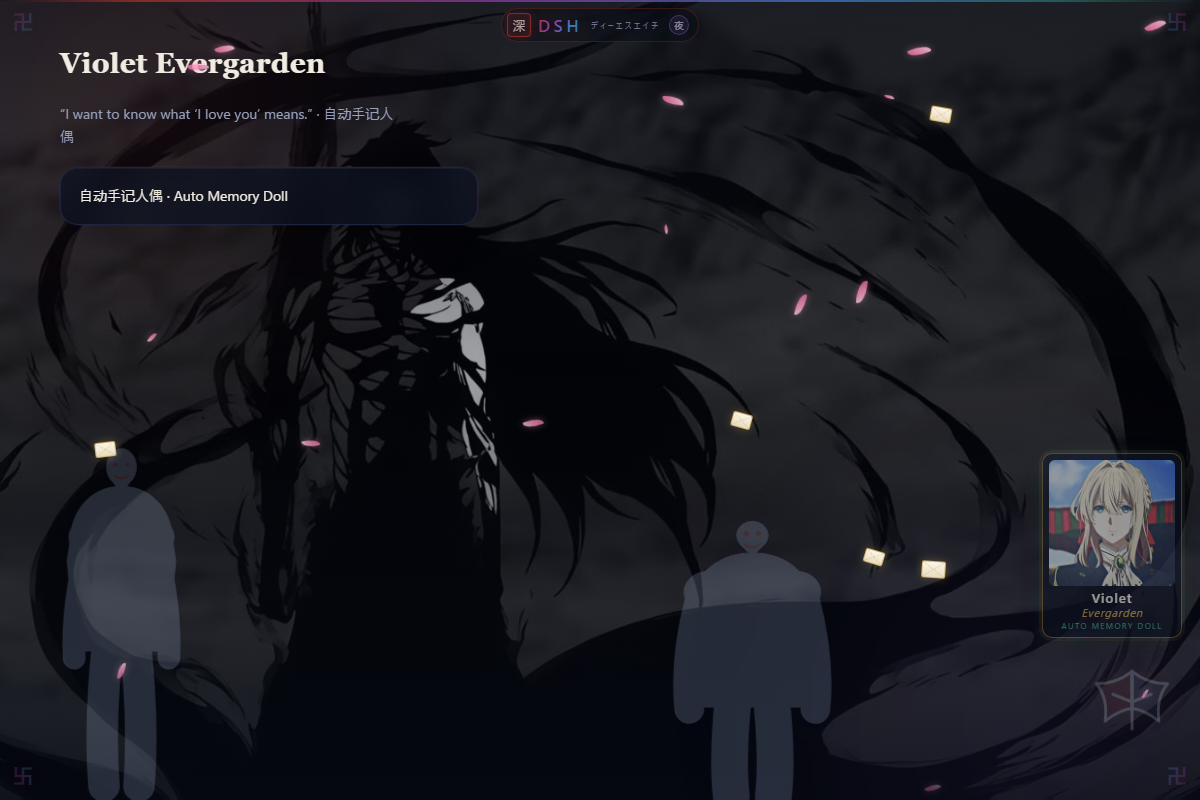
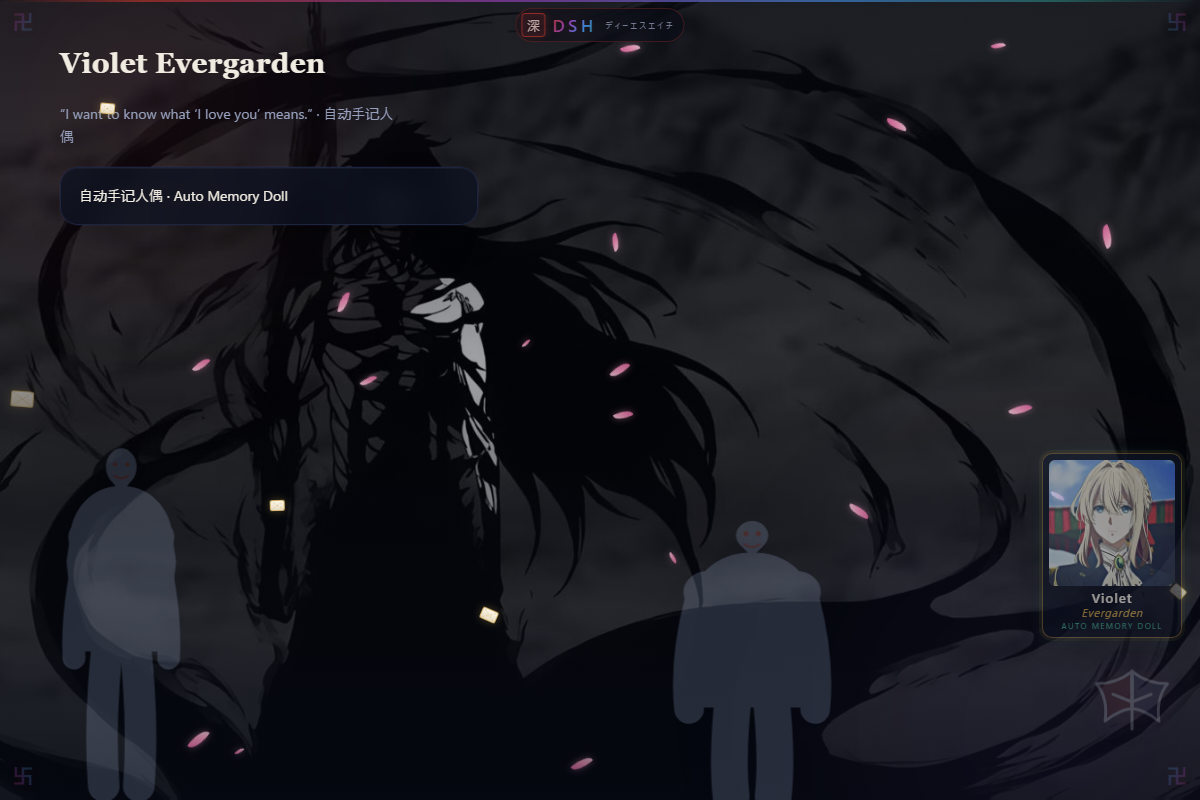
fix(skin): one dark look only, wallpaper finally visible
- Drop the 夜/昼 switch entirely: it sat in the Electron drag strip so clicks
  never reached it, and a single look was wanted; the 深 DSH wordmark is now
  decorative and non-interactive
- Palette is declared on <html> *and* <body>, which beats the theme variables
  DSH sets inline, so the dark surface wins regardless of the app's own setting
- New clearShell() walks the first shell levels at startup and clears opaque
  full-viewport wrappers (never content panels), so the wallpaper shows through

diff --git a/theme.js b/theme.js
@@ -20,25 +20,10 @@
     return true // default on while the plugin is installed
   }
 
-  var VARIANT_KEY = 'dsh-anime-variant'
-  var logo
-
-  function savedVariant() {
-    try {
-      var v = localStorage.getItem(VARIANT_KEY)
-      if (v === 'light' || v === 'dark') return v
-    } catch (e) {}
-    return 'dark'
-  }
-
-  // The skin is always on while the plugin is enabled; the wordmark switches
-  // between the dark (夜) and light (昼) palettes instead of turning it off.
-  function setVariant(variant) {
+  // One single dark look: no variants, nothing to click.
+  function setVariant() {
     root.classList.add('dsh-anime')
-    root.classList.toggle('anime-light', variant === 'light')
-    var tag = logo && logo.querySelector('.mode')
-    if (tag) tag.textContent = variant === 'light' ? '昼' : '夜'
-    try { localStorage.setItem(VARIANT_KEY, variant) } catch (e) {}
+    root.classList.remove('anime-light')
   }
 
   /* ---- titan strip (painted as the body background) ---------------------
@@ -190,18 +175,13 @@
     topline.setAttribute('aria-hidden', 'true')
     document.body.appendChild(topline)
 
-    /* DSH wordmark at the bottom-left; click it to switch 夜 / 昼 */
-    logo = document.createElement('button')
+    /* decorative DSH wordmark, centred at the top */
+    var logo = document.createElement('div')
     logo.id = 'dsh-anime-logo'
-    logo.type = 'button'
-    logo.title = '切换 夜（深色）/ 昼（浅色）主题'
+    logo.setAttribute('aria-hidden', 'true')
     logo.innerHTML = '<span class="seal">深</span>' +
       '<span class="cn">DSH</span>' +
-      '<span class="en">ディーエスエイチ</span>' +
-      '<span class="mode">夜</span>'
-    logo.addEventListener('click', function () {
-      setVariant(root.classList.contains('anime-light') ? 'dark' : 'light')
-    })
+      '<span class="en">ディーエスエイチ</span>'
     document.body.appendChild(logo)
 
     /* titan ghosts: two copies of the strip form a seamless scrolling track */
@@ -293,10 +273,44 @@
     }
   }
 
+  // DSH paints its own opaque shell somewhere between <body> and the columns;
+  // walk the first few levels and punch it out so the picture shows through.
+  function clearShell() {
+    try {
+      var levels = [document.body]
+      for (var depth = 0; depth < 3; depth++) {
+        var next = []
+        for (var i = 0; i < levels.length; i++) {
+          var kids = levels[i].children || []
+          for (var k = 0; k < kids.length; k++) next.push(kids[k])
+        }
+        levels = next
+        for (var j = 0; j < levels.length; j++) {
+          var el = levels[j]
+          var cls = (el.className && String(el.className)) || ''
+          // never strip a real content surface: only shell wrappers
+          if (/card|panel|sidebar|conversation|chat|composer|message|menu|dialog/i.test(cls)) continue
+          var rect = el.getBoundingClientRect()
+          if (rect.width < window.innerWidth * 0.5 || rect.height < window.innerHeight * 0.5) continue
+          var style = getComputedStyle(el)
+          el.style.setProperty('background-color', 'transparent', 'important')
+          if (style.backgroundImage !== 'none') {
+            el.style.setProperty('background-image', 'none', 'important')
+          }
+        }
+      }
+    } catch (e) {}
+  }
+
   function start() {
     try {
       buildDecor()
-      setVariant(savedVariant())
+      setVariant()
+      clearShell()
+      // the shell renders late, so retry a couple of times
+      setTimeout(clearShell, 600)
+      setTimeout(clearShell, 2000)
+      setTimeout(clearShell, 5000)
     } catch (e) {}
   }
 

diff --git a/theme.css b/theme.css
@@ -12,7 +12,8 @@
    toggle and never leaks into the default theme.
    =========================================================================== */
 
-html.dsh-anime {
+html.dsh-anime,
+html.dsh-anime body {
   /* --- surfaces: translucent so the titan backdrop and the ambient glows
          read *through* the panels while the text stays perfectly legible --- */
   --dsw-alias-bg-base: #060912 !important;
@@ -538,15 +539,9 @@ html:not(.dsh-anime) #dsh-anime-poster { display: none; }
   border-radius: 999px;
   background: rgba(8, 12, 22, 0.6);
   backdrop-filter: blur(8px);
-  cursor: pointer;
+  pointer-events: none;
   user-select: none;
-  opacity: 0.75;
-  transition: border-color 0.2s ease, box-shadow 0.2s ease, opacity 0.2s ease;
-}
-#dsh-anime-logo:hover {
-  opacity: 1;
-  border-color: rgba(216, 58, 48, 0.7);
-  box-shadow: 0 0 16px -4px rgba(216, 58, 48, 0.5);
+  opacity: 0.8;
 }
 @media (prefers-reduced-motion: reduce) {
   #dsh-anime-logo { transition: none; }

diff --git a/README.md b/README.md
@@ -79,13 +79,13 @@ dsh plugin --profile desktop add link:/absolute/path/to/dsh-anime-theme
 ## Usage
 
 - The theme is on by default once installed.
-- Click the **深 DSH** wordmark at the top-centre to switch between **夜 (dark)** and **昼 (light)**; the chip shows the current one and the choice is stored in `localStorage`.
+- The skin has a single dark look — there is no switch to operate; the 深 DSH wordmark is purely decorative.
 - To remove the skin, disable or uninstall the `dsh-anime-theme` row in the Plugins page.
 
 <br>
 
 - 安装后主题默认开启。
-- 点正上方中间的 **深 DSH** 字标即可在 **夜（深色）** 与 **昼（浅色）** 之间切换，旁边的小圆章会显示当前模式，选择保存在 `localStorage`。
+- 整套皮肤只有一种深色外观，无需切换；顶部中间的 **深 DSH** 字标仅为装饰。
 - 想彻底移除：在插件页禁用或卸载 `dsh-anime-theme` 这一行。
 
 ---
